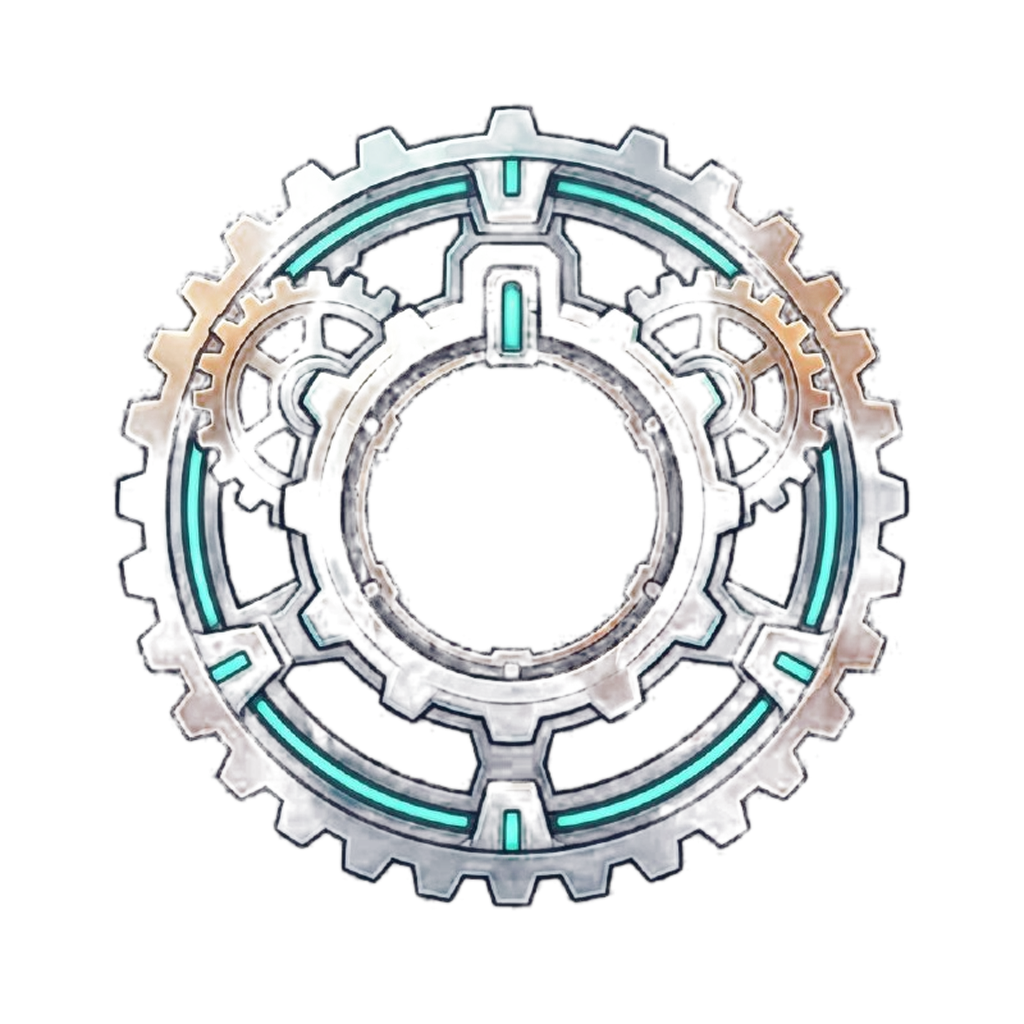
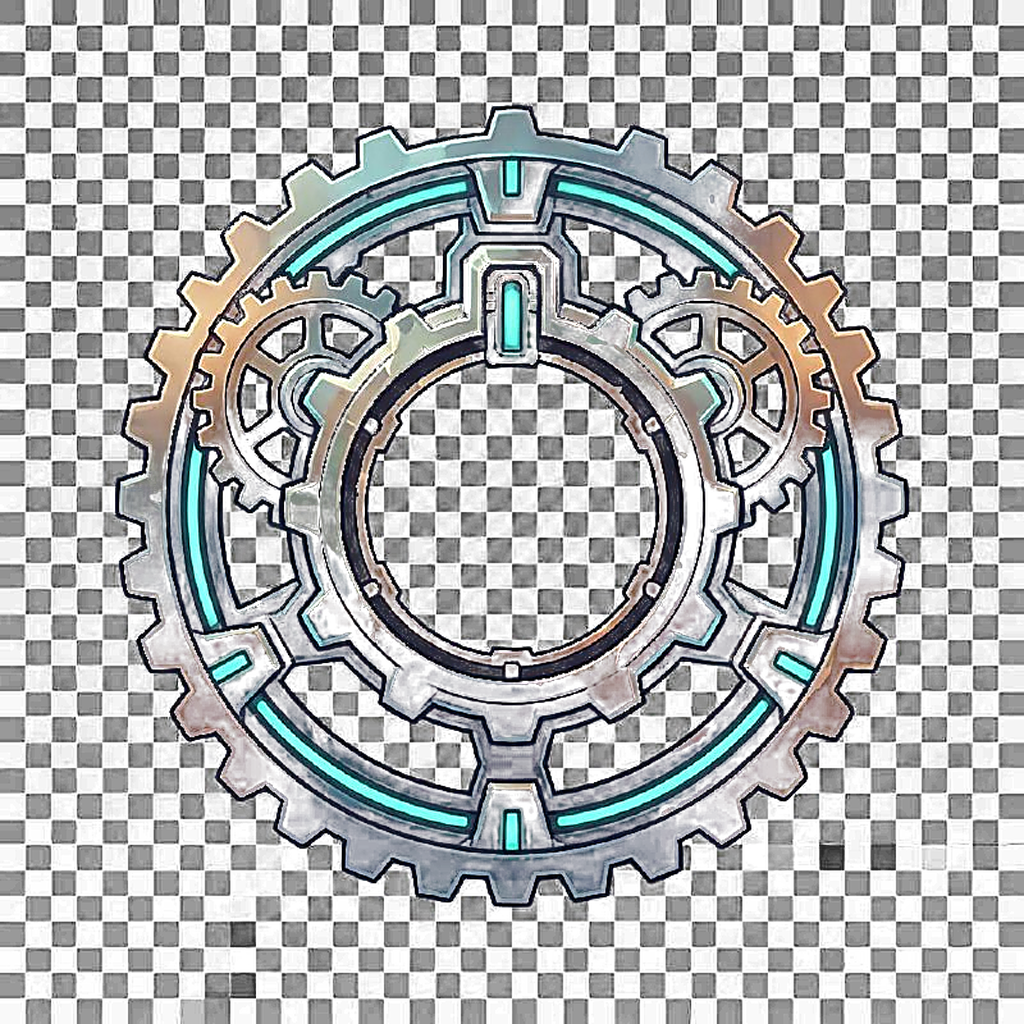
ARC//BREAKER: improve asset alpha extraction + animate/scale boss visuals

diff --git a/src/arcBreaker.tsx b/src/arcBreaker.tsx
@@ -856,7 +856,7 @@ export function ArcBreaker() {
               if (part.kind !== "anchor" || part.hp <= 0 || part.shieldHp <= 0) continue;
               const cx = part.x + part.w * 0.5;
               const cy = part.y + part.h * 0.5;
-              const rr = 0.12; // match render scale
+              const rr = 0.145; // match render scale
               const dx = b.x - cx;
               const dy = b.y - cy;
               const d = Math.hypot(dx, dy);
@@ -883,7 +883,7 @@ export function ArcBreaker() {
             if (boss.phase >= 2 && boss.bossShieldHp > 0) {
               const cx = 0.5;
               const cy = 0.24;
-              const rr = 0.30;
+              const rr = 0.36;
               const dx = b.x - cx;
               const dy = b.y - cy;
               const d = Math.hypot(dx, dy);
@@ -915,7 +915,7 @@ export function ArcBreaker() {
               if (part.kind !== "anchor" || part.hp <= 0 || part.shieldHp <= 0) continue;
               const cx = part.x + part.w * 0.5;
               const cy = part.y + part.h * 0.5;
-              const rr = 0.12;
+              const rr = 0.145;
               const d = Math.hypot(m.x - cx, m.y - cy);
               if (d < rr) {
                 part.shieldHp = Math.max(0, part.shieldHp - 1);
@@ -925,7 +925,7 @@ export function ArcBreaker() {
             }
             if (!hitShield && boss.phase >= 2 && boss.bossShieldHp > 0) {
               const d = Math.hypot(m.x - 0.5, m.y - 0.24);
-              if (d < 0.30) {
+              if (d < 0.36) {
                 boss.bossShieldHp = Math.max(0, boss.bossShieldHp - 1);
                 hitShield = true;
               }
@@ -1280,6 +1280,7 @@ export function ArcBreaker() {
       const boss2 = bossRef.current;
       if (boss2.active) {
         const spr = spritesRef.current;
+        const t = performance.now() / 1000;
 
         // subtle backdrop
         ctx.fillStyle = boss2.angry ? "rgba(255,90,120,0.055)" : "rgba(80,200,255,0.04)";
@@ -1381,7 +1382,8 @@ export function ArcBreaker() {
             ctx.translate(ax, ay);
             ctx.rotate(ang);
             const h = 34;
-            ctx.globalAlpha = part.shieldHp > 0 ? 0.75 : 0.45;
+            ctx.globalCompositeOperation = "screen";
+            ctx.globalAlpha = part.shieldHp > 0 ? 0.80 : 0.50;
             ctx.drawImage(spr.tether, 0, -h / 2, len, h);
             ctx.globalAlpha = 1;
             ctx.restore();
@@ -1395,9 +1397,12 @@ export function ArcBreaker() {
           if (spritesReady && boss2.phase >= 2 && boss2.bossShieldHp > 0 && shieldImg && shieldImg.complete) {
             const cx = arena.x + 0.5 * arena.w;
             const cy = arena.y + 0.24 * arena.h;
-            const rr = arena.w * 0.30;
+            const rr = arena.w * 0.36;
             const a = clamp(boss2.bossShieldHp / Math.max(1, boss2.bossShieldMax), 0, 1);
-            ctx.globalAlpha = 0.65 + 0.25 * a;
+            const pulse = 0.5 + 0.5 * Math.sin(t * 2.1);
+            ctx.save();
+            ctx.globalCompositeOperation = "screen";
+            ctx.globalAlpha = (0.60 + 0.30 * a) * (0.92 + 0.10 * pulse);
             ctx.drawImage(shieldImg, cx - rr, cy - rr, rr * 2, rr * 2);
 
             // crack overlay based on remaining HP
@@ -1406,6 +1411,7 @@ export function ArcBreaker() {
               ctx.globalAlpha = 0.35 + 0.35 * (1 - a);
               ctx.drawImage(crack, cx - rr, cy - rr, rr * 2, rr * 2);
             }
+            ctx.restore();
             ctx.globalAlpha = 1;
           }
         }
@@ -1418,20 +1424,25 @@ export function ArcBreaker() {
 
           if (part.shieldHp > 0 && spr.shieldAnchor && spr.shieldAnchor.complete) {
             const a = clamp(part.shieldHp / Math.max(1, part.shieldMax), 0, 1);
-            const rr = arena.w * 0.12;
-            ctx.globalAlpha = 0.55 + 0.30 * a;
+            const rr = arena.w * 0.145;
+            const pulse = 0.5 + 0.5 * Math.sin(t * 3.2 + ax * 0.01);
+            ctx.save();
+            ctx.globalCompositeOperation = "screen";
+            ctx.globalAlpha = (0.55 + 0.30 * a) * (0.92 + 0.10 * pulse);
             ctx.drawImage(spr.shieldAnchor, ax - rr, ay - rr, rr * 2, rr * 2);
             const crack = a < 0.34 ? spr.crackHeavy : a < 0.67 ? spr.crackLight : undefined;
             if (crack && crack.complete) {
-              ctx.globalAlpha = 0.35 + 0.35 * (1 - a);
+              ctx.globalAlpha = 0.30 + 0.45 * (1 - a);
               ctx.drawImage(crack, ax - rr, ay - rr, rr * 2, rr * 2);
             }
+            ctx.restore();
             ctx.globalAlpha = 1;
           }
 
           if (spr.anchor && spr.anchor.complete) {
-            const rr = arena.w * 0.09;
-            ctx.drawImage(spr.anchor, ax - rr, ay - rr, rr * 2, rr * 2);
+            const rr = arena.w * 0.105;
+            const wob = Math.sin(t * 2.6 + ax * 0.01) * 2;
+            ctx.drawImage(spr.anchor, ax - rr, ay - rr + wob, rr * 2, rr * 2);
           }
         }
 
@@ -1442,24 +1453,33 @@ export function ArcBreaker() {
           const exposed = boss2.phase >= 2 && boss2.bossShieldHp <= 0;
 
           if (spr.gearRing && spr.gearRing.complete) {
-            const rr = arena.w * 0.185;
-            ctx.globalAlpha = exposed ? 1 : 0.8;
-            ctx.drawImage(spr.gearRing, cx - rr, cy - rr, rr * 2, rr * 2);
+            const rr = arena.w * 0.22;
+            ctx.save();
+            ctx.translate(cx, cy);
+            ctx.rotate(t * 0.25);
+            ctx.globalAlpha = exposed ? 1 : 0.85;
+            ctx.drawImage(spr.gearRing, -rr, -rr, rr * 2, rr * 2);
             ctx.globalAlpha = 1;
+            ctx.restore();
           }
 
           if (spr.energyNodes && spr.energyNodes.complete) {
-            const rr = arena.w * 0.14;
-            ctx.globalAlpha = 0.85;
+            const rr = arena.w * 0.17;
+            const pulse = 0.5 + 0.5 * Math.sin(t * 6.0);
+            ctx.globalAlpha = 0.65 + 0.25 * pulse;
             ctx.drawImage(spr.energyNodes, cx - rr, cy - rr, rr * 2, rr * 2);
             ctx.globalAlpha = 1;
           }
 
           if (spr.core && spr.core.complete) {
-            const rr = arena.w * 0.16;
-            ctx.globalAlpha = exposed ? 1 : 0.85;
-            ctx.drawImage(spr.core, cx - rr, cy - rr, rr * 2, rr * 2);
+            const rr = arena.w * 0.19;
+            ctx.save();
+            ctx.translate(cx, cy);
+            ctx.rotate(-t * 0.18);
+            ctx.globalAlpha = exposed ? 1 : 0.9;
+            ctx.drawImage(spr.core, -rr, -rr, rr * 2, rr * 2);
             ctx.globalAlpha = 1;
+            ctx.restore();
           }
         }
 

diff --git a/scripts/extract_alpha.py b/scripts/extract_alpha.py
@@ -9,7 +9,7 @@ Outputs cleaned RGBA PNG, cropped to content with padding, resized to 1024x1024.
 
 import os
 import sys
-from PIL import Image, ImageFilter
+from PIL import Image, ImageFilter, ImageChops
 
 
 def clamp(x, a=0.0, b=1.0):
@@ -38,34 +38,72 @@ def rgb_to_hsv(r, g, b):
 def make_alpha(im: Image.Image) -> Image.Image:
     im = im.convert("RGB")
     w, h = im.size
+
+    # Estimate checkerboard background colors by sampling low-sat pixels
     px = im.load()
+    samples = []
+    step = max(4, min(w, h) // 64)
+    for y in range(0, h, step):
+        for x in range(0, w, step):
+            r, g, b = px[x, y]
+            _, s, v = rgb_to_hsv(r, g, b)
+            neutral = 1.0 - (abs(r - g) + abs(g - b) + abs(b - r)) / (3.0 * 255.0)
+            if s < 0.10 and neutral > 0.75 and v > 0.15:
+                samples.append((r, g, b))
+
+    # Fallback to corners if needed
+    if len(samples) < 50:
+        corners = [im.getpixel((2, 2)), im.getpixel((w - 3, 2)), im.getpixel((2, h - 3)), im.getpixel((w - 3, h - 3))]
+        samples = corners * 40
+
+    # crude 2-means clustering
+    c1 = samples[0]
+    c2 = samples[len(samples) // 2]
+    for _ in range(8):
+        a1 = [0, 0, 0, 0]
+        a2 = [0, 0, 0, 0]
+        for r, g, b in samples:
+            d1 = (r - c1[0]) ** 2 + (g - c1[1]) ** 2 + (b - c1[2]) ** 2
+            d2 = (r - c2[0]) ** 2 + (g - c2[1]) ** 2 + (b - c2[2]) ** 2
+            if d1 <= d2:
+                a1[0] += r; a1[1] += g; a1[2] += b; a1[3] += 1
+            else:
+                a2[0] += r; a2[1] += g; a2[2] += b; a2[3] += 1
+        if a1[3] > 0:
+            c1 = (a1[0] // a1[3], a1[1] // a1[3], a1[2] // a1[3])
+        if a2[3] > 0:
+            c2 = (a2[0] // a2[3], a2[1] // a2[3], a2[2] // a2[3])
+
     out = Image.new("RGBA", (w, h), (0, 0, 0, 0))
     opx = out.load()
 
-    # First pass: alpha from saturation + distance to neutral gray
+    # Alpha from: saturation + distance from either checker color + non-neutral bias
     for y in range(h):
         for x in range(w):
             r, g, b = px[x, y]
             _, s, v = rgb_to_hsv(r, g, b)
-            # neutral-ness: how close channels are
             neutral = 1.0 - (abs(r - g) + abs(g - b) + abs(b - r)) / (3.0 * 255.0)
 
-            # Background checkerboard is low saturation, high neutral.
-            # Keep colorful pixels; suppress neutral low-sat.
-            a = 0.0
-            a = max(a, (s - 0.10) / 0.35)  # color
-            a = max(a, (0.35 - neutral) / 0.35)  # non-neutral
+            d1 = (((r - c1[0]) / 255.0) ** 2 + ((g - c1[1]) / 255.0) ** 2 + ((b - c1[2]) / 255.0) ** 2) ** 0.5
+            d2 = (((r - c2[0]) / 255.0) ** 2 + ((g - c2[1]) / 255.0) ** 2 + ((b - c2[2]) / 255.0) ** 2) ** 0.5
+            dist = d1 if d1 < d2 else d2
 
-            # Preserve bright highlights even if low saturation
-            a = max(a, (v - 0.70) / 0.30 * (1.0 - neutral) * 1.2)
+            a = 0.0
+            a = max(a, (dist - 0.05) / 0.18)              # foreground vs bg
+            a = max(a, (s - 0.08) / 0.30)                 # keep color
+            a = max(a, (0.30 - neutral) / 0.30)           # non-neutral
+            a = max(a, (v - 0.80) / 0.20 * 0.9)           # keep bright highlights
 
             a = clamp(a, 0.0, 1.0)
             opx[x, y] = (r, g, b, int(a * 255))
 
-    # Feather edges slightly
+    # Clean / sharpen alpha edges
     alpha = out.split()[-1]
-    alpha = alpha.filter(ImageFilter.GaussianBlur(radius=0.8))
+    alpha = alpha.filter(ImageFilter.GaussianBlur(radius=0.6))
     out.putalpha(alpha)
+
+    # Unsharp mask to counter resize blur
+    out = out.filter(ImageFilter.UnsharpMask(radius=1.6, percent=120, threshold=3))
     return out
 
 
